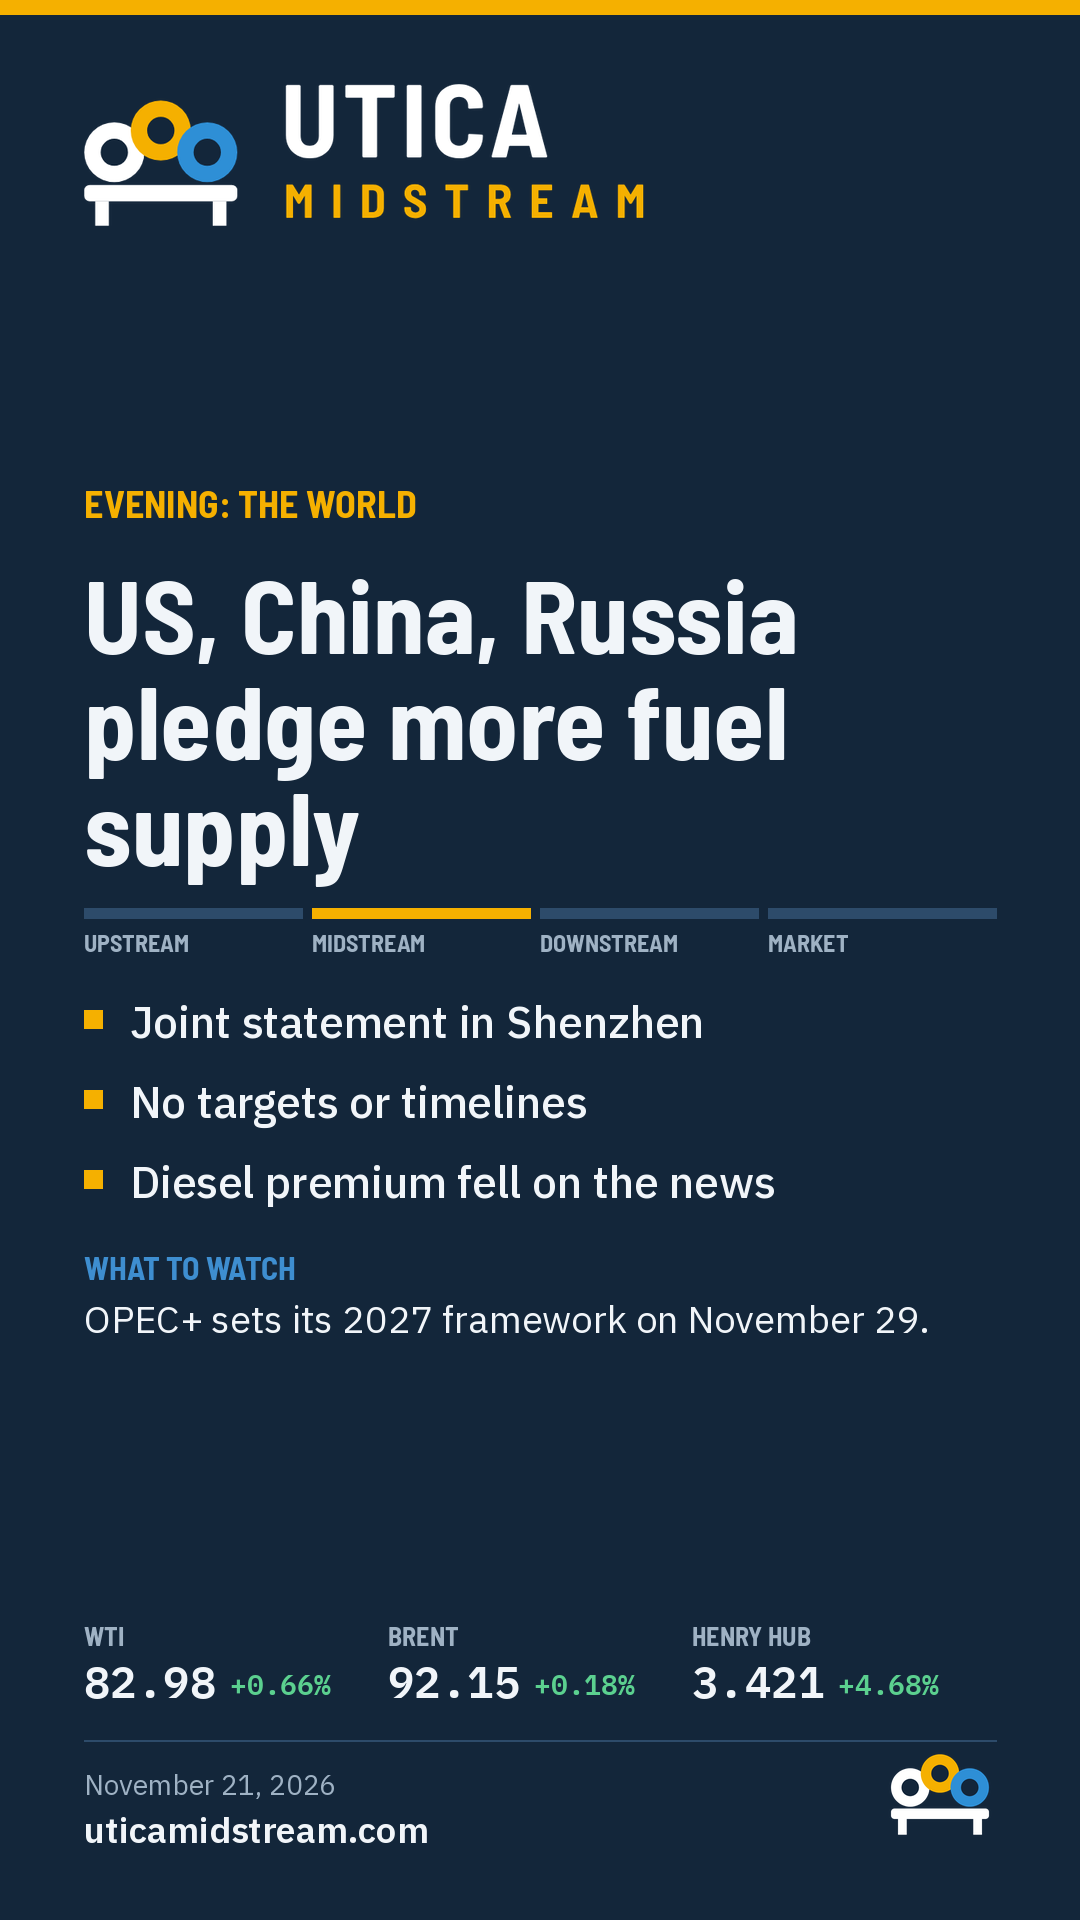
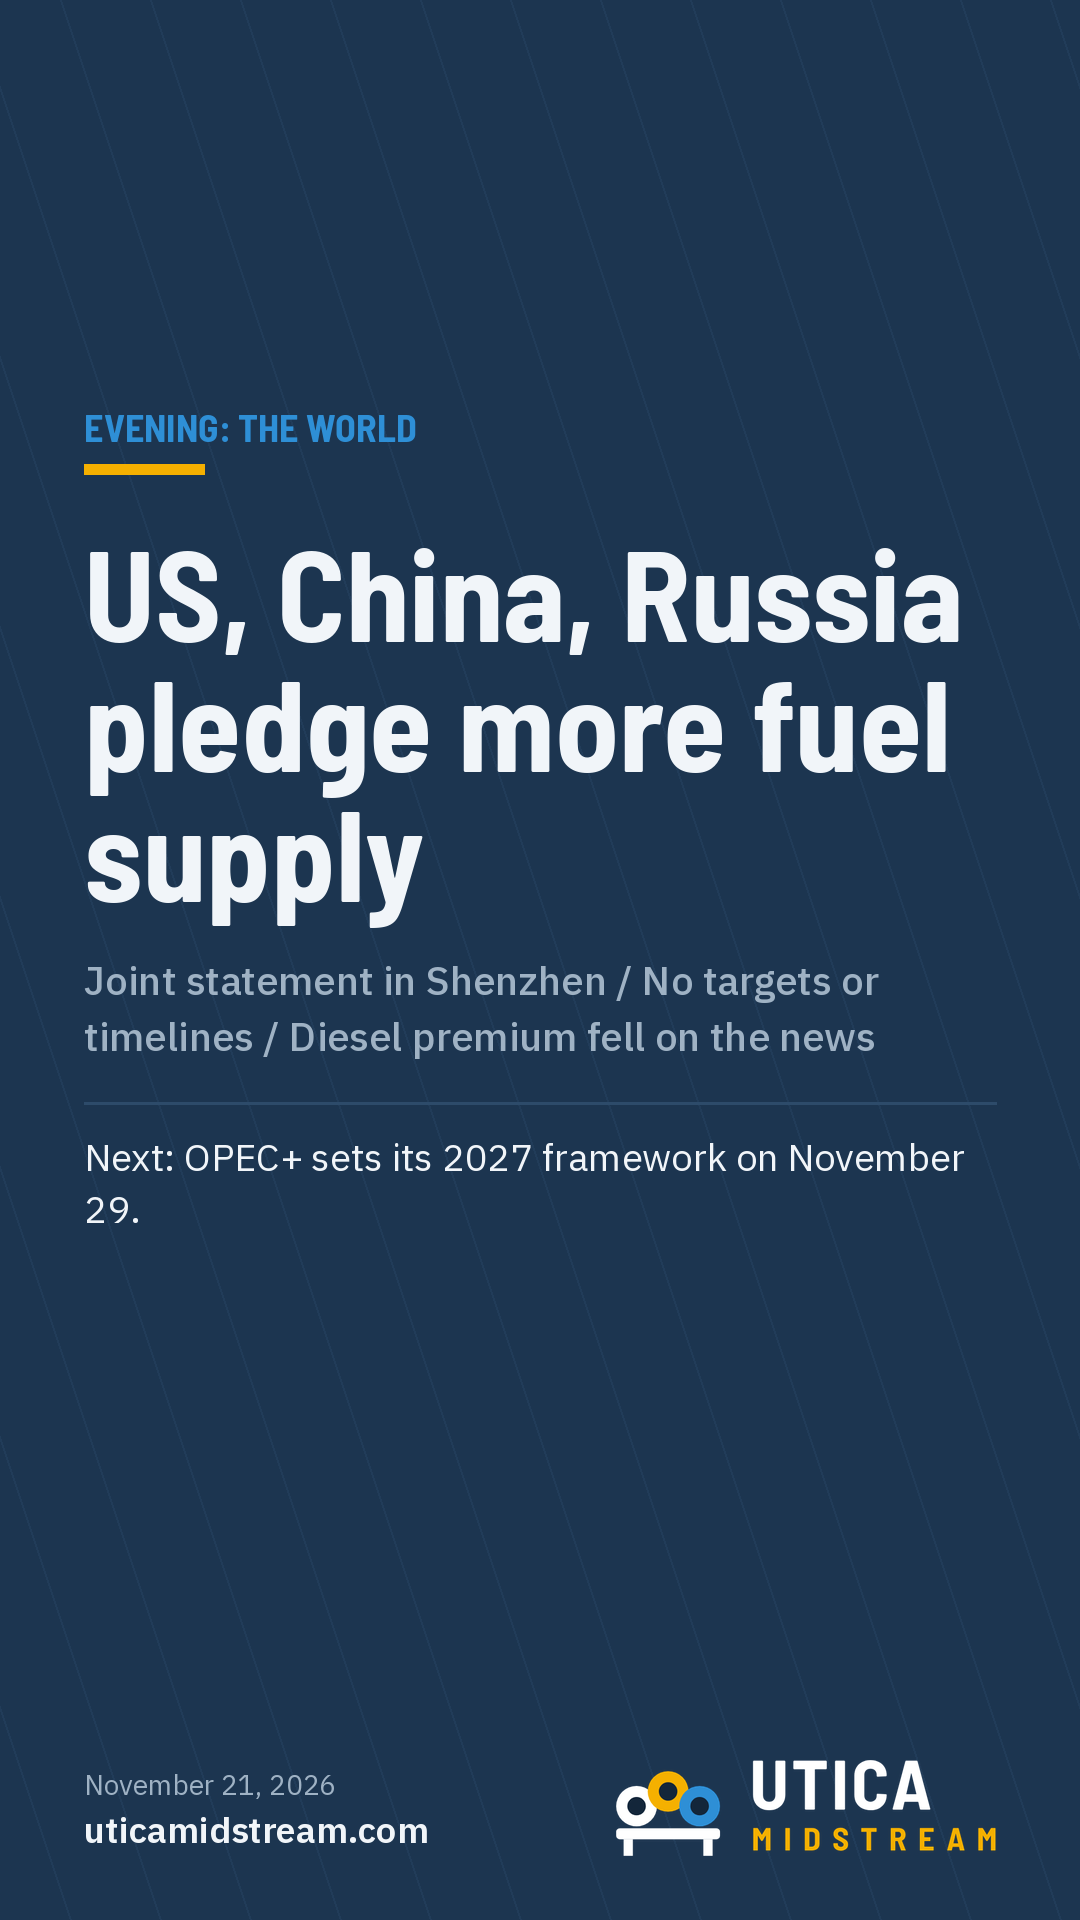
Social graphics: six rotating layouts by slot and date; caption variety rules
Claude-Session: https://claude.ai/code/session_01VeWbxtWDuFxHHiHML1bZzZ

diff --git a/tools/build.py b/tools/build.py
@@ -116,13 +116,17 @@ L += ["", "## About", f"- [How we work]({SITE}method.html)", f"- [Past editions]
 L += [f"- [{d['date_long']}: {d['lead']['headline']}]({page_url(d, True)})" for d in list(reversed(data))[:30]]
 open("llms.txt", "w").write("\n".join(L) + "\n")
 
-# Social graphics
-NAVY, PAPER, AMB, GAS, MUTE, LINE, UP, DN = (19, 38, 58), (241, 245, 249), (245, 176, 0), (62, 142, 208), (159, 178, 196), (45, 75, 106), (91, 208, 143), (255, 138, 128)
+# Social graphics: three slot looks (flow, money, world), each with two layouts that
+# alternate by date, so no two posts in a row share a template.
+NAVY, NAVY2, PAPER, AMB, AMBINK, GAS, WATER = (19, 38, 58), (28, 53, 80), (245, 244, 239), (245, 176, 0), (143, 94, 0), (62, 142, 208), (46, 143, 214)
+WHITE, MUTE, LINE, UP, DN, INK2 = (241, 245, 249), (159, 178, 196), (45, 75, 106), (91, 208, 143), (255, 138, 128), (84, 98, 112)
+UPI, DNI = (22, 128, 70), (180, 40, 40)
 def F(w, s): return ImageFont.truetype(f"tools/fonts/{w}.ttf", s)
 HEAD, SANS, SANSM, SANSB, MONO = "BarlowSemiCondensed-Bold", "IBMPlexSans-Regular", "IBMPlexSans-Medium", "IBMPlexSans-SemiBold", "IBMPlexMono-SemiBold"
-lock = Image.open("brand/um-lockup-white-1200.png").convert("RGBA")
-lock = lock.crop(lock.getbbox())
-mark = Image.open("brand/um-mark-white-400.png").convert("RGBA")
+def _png(p):
+    i = Image.open(p).convert("RGBA"); return i.crop(i.getbbox())
+LOCK_W, LOCK_N, MARK_W, MARK_C = _png("brand/um-lockup-white-1200.png"), _png("brand/um-lockup-navy-1200.png"), _png("brand/um-mark-white-400.png"), _png("brand/um-mark-400.png")
+M = 84
 
 def wrap(dr, text, font, width):
     words, lines, cur = text.split(), [], ""
@@ -133,66 +137,234 @@ def wrap(dr, text, font, width):
     lines.append(cur)
     return lines
 
-def card(d, s, W, H, path, pad=0, prices=True):
-    im = Image.new("RGB", (W, H), NAVY); dr = ImageDraw.Draw(im); M = 84
+def paste(im, src, x, y, w):
+    s = src.resize((w, int(w * src.height / src.width)), Image.LANCZOS); im.paste(s, (x, y), s); return s.height
+
+def headline(dr, text, x, y, width, sizes, fill, maxl=3):
+    for sz in sizes:
+        f = F(HEAD, sz); ls = wrap(dr, text, f, width)
+        if len(ls) <= maxl: break
+    for line in ls:
+        dr.text((x, y), line, font=f, fill=fill); y += int(f.size * 1.02)
+    return y
+
+def stat_of(s):
+    if s.get("stat"): return s["stat"]["value"], s["stat"].get("label", "")
+    import re
+    for pat in (r"[$€£]\d[\d,.]*\s?(?:B|M|K|bn|billion|million)?", r"\d[\d,.]*\s?(?:Bcf/d|MMcf/d|b/d|mtpa|%)"):
+        for p in s["points"]:
+            m = re.search(pat, p)
+            if m: return m.group().strip(), p
+    for p in s["points"]:
+        m = re.search(r"[$€£]?\d[\d,.]*\s?(?:%|B|M|K|bn|billion|million|Bcf/d|MMcf/d|b/d|mtpa)?", p)
+        if m and len(m.group().strip()) >= 2: return m.group().strip(), p
+    return None, None
+
+def price_strip(dr, d, x, y, W, dark):
+    if not d.get("prices"): return y
+    rows = {r["name"].split(" (")[0]: r for r in d["prices"]["rows"]}
+    picks = [(n, rows.get(k)) for n, k in (("WTI", "WTI"), ("BRENT", "Brent"), ("HENRY HUB", "Henry Hub")) if rows.get(k)]
+    if not picks: return y
+    cw = W // len(picks)
+    for i, (n, r) in enumerate(picks):
+        x0 = x + i * cw
+        dr.text((x0, y), n, font=F(HEAD, 26), fill=MUTE if dark else INK2)
+        dr.text((x0, y + 32), r["value"], font=F(MONO, 44), fill=WHITE if dark else NAVY)
+        pc = r.get("pct", "")
+        dr.text((x0 + dr.textlength(r["value"], font=F(MONO, 44)) + 14, y + 46), pc, font=F(MONO, 28),
+                fill=(DN if dark else DNI) if pc.startswith("-") else (UP if dark else UPI))
+    return y + 100
+
+def footer(im, dr, d, W, H, dark, mark_right=True):
+    fy = H - M - 96
+    dr.line((M, fy, W - M, fy), fill=LINE if dark else (214, 210, 198), width=2)
+    dr.text((M, H - M - 70), d["date_long"], font=F(SANS, 28), fill=MUTE if dark else INK2)
+    dr.text((M, H - M - 30), "uticamidstream.com", font=F(SANSB, 36), fill=WHITE if dark else NAVY)
+    if mark_right: paste(im, MARK_W if dark else MARK_C, W - M - 112, H - M - 108, 112)
+    return fy
+
+def chain_on(d, s):
+    return d["lead"].get("chain", []) if s is d.get("social") else ["midstream"]
+
+# Morning A: chain bar and bullets (the original look)
+def flow_a(d, s, W, H, pad):
+    im = Image.new("RGB", (W, H), NAVY); dr = ImageDraw.Draw(im)
     dr.rectangle((0, 0, W, 14), fill=AMB)
-    lg = lock.resize((560, int(560 * lock.height / lock.width)), Image.LANCZOS); im.paste(lg, (M, M), lg)
-    y = M + lg.height + 64 + pad
+    y = M + paste(im, LOCK_W, M, M, 560) + 64 + pad
     dr.text((M, y), s["kicker"].upper(), font=F(HEAD, 38), fill=AMB); y += 70
-    hf = F(HEAD, 104 if H > W * 1.5 else 92)
-    if H <= W * 1.5 and len(wrap(dr, s["headline"], hf, W - 2 * M)) > 2:
-        hf = F(HEAD, 78)
-    for line in wrap(dr, s["headline"], hf, W - 2 * M):
-        dr.text((M, y), line, font=hf, fill=PAPER); y += int(hf.size * 1.02)
-    y += 40
-    # value chain bar
-    seg = (W - 2 * M) // 4
+    y = headline(dr, s["headline"], M, y, W - 2 * M, (104, 92, 78) if H > W * 1.5 else (92, 78), WHITE) + 40
+    seg, on = (W - 2 * M) // 4, chain_on(d, s)
     for i, lab in enumerate(("UPSTREAM", "MIDSTREAM", "DOWNSTREAM", "MARKET")):
         x0 = M + i * seg
-        on = lab.lower() in d["lead"].get("chain", []) if s is d.get("social") else lab == "MIDSTREAM"
-        dr.rectangle((x0, y, x0 + seg - (10 if i < 3 else 0), y + 10), fill=AMB if lab == "MIDSTREAM" else (GAS if on else LINE))
+        dr.rectangle((x0, y, x0 + seg - (10 if i < 3 else 0), y + 10), fill=AMB if lab == "MIDSTREAM" else (GAS if lab.lower() in on else LINE))
         dr.text((x0, y + 20), lab, font=F(HEAD, 24), fill=MUTE)
-    y += 84
-    pf = F(SANSM, 44)
+    y += 84; pf = F(SANSM, 44)
     for p in s["points"]:
         dr.rectangle((M, y + 18, M + 18, y + 36), fill=AMB)
         for line in wrap(dr, p, pf, W - 2 * M - 50):
-            dr.text((M + 46, y), line, font=pf, fill=PAPER); y += 58
+            dr.text((M + 46, y), line, font=pf, fill=WHITE); y += 58
         y += 22
     if s.get("watch"):
-        y += 16
-        dr.text((M, y), "WHAT TO WATCH", font=F(HEAD, 32), fill=GAS); y += 46
-        wf = F(SANS, 38)
-        for line in wrap(dr, s["watch"], wf, W - 2 * M):
-            dr.text((M, y), line, font=wf, fill=PAPER); y += 52
-    end = y
-    foot = H - M - 96
-    if prices and d.get("prices"):
-        rows = {r["name"].split(" (")[0]: r for r in d["prices"]["rows"]}
-        picks = [("WTI", rows.get("WTI")), ("BRENT", rows.get("Brent")), ("HENRY HUB", rows.get("Henry Hub"))]
-        picks = [(n, r) for n, r in picks if r]
-        if picks and foot - end > 150:
-            py = foot - 120
-            cw = (W - 2 * M) // len(picks)
-            for i, (n, r) in enumerate(picks):
-                x0 = M + i * cw
-                dr.text((x0, py), n, font=F(HEAD, 26), fill=MUTE)
-                dr.text((x0, py + 32), r["value"], font=F(MONO, 44), fill=PAPER)
-                pc = r.get("pct", "")
-                dr.text((x0 + dr.textlength(r["value"], font=F(MONO, 44)) + 14, py + 46), pc, font=F(MONO, 28), fill=DN if pc.startswith("-") else UP)
-    dr.line((M, foot, W - M, foot), fill=LINE, width=2)
+        y += 16; dr.text((M, y), "WHAT TO WATCH", font=F(HEAD, 32), fill=GAS); y += 46
+        for line in wrap(dr, s["watch"], F(SANS, 38), W - 2 * M):
+            dr.text((M, y), line, font=F(SANS, 38), fill=WHITE); y += 52
+    fy = footer(im, dr, d, W, H, True)
+    if fy - y > 150: price_strip(dr, d, M, fy - 120, W - 2 * M, True)
+    return im, y
+
+# Morning B: a pipeline schematic, headline up top, numbered steps along the pipe
+def flow_b(d, s, W, H, pad):
+    im = Image.new("RGB", (W, H), NAVY2); dr = ImageDraw.Draw(im)
+    dr.rectangle((0, 0, 14, H), fill=AMB)
+    y = M + pad
+    paste(im, MARK_W, M, y, 96)
+    dr.text((M + 120, y + 8), "UTICA MIDSTREAM", font=F(HEAD, 34), fill=WHITE)
+    dr.text((M + 120, y + 50), s["kicker"].upper(), font=F(HEAD, 30), fill=AMB)
+    y += 160
+    y = headline(dr, s["headline"], M, y, W - 2 * M, (112, 98, 84) if H > W * 1.5 else (100, 86, 76), WHITE) + 56
+    # pipe with four valves
+    on = chain_on(d, s); xs = [M + 40 + i * (W - 2 * M - 80) // 3 for i in range(4)]
+    dr.rectangle((M, y + 26, W - M, y + 46), fill=LINE)
+    for i, lab in enumerate(("UPSTREAM", "MIDSTREAM", "DOWNSTREAM", "MARKET")):
+        lit = lab == "MIDSTREAM" or lab.lower() in on
+        c = AMB if lab == "MIDSTREAM" else (GAS if lit else LINE)
+        if i < 3 and lit and (("UPSTREAM", "MIDSTREAM", "DOWNSTREAM", "MARKET")[i + 1].lower() in on or i == 0 and "upstream" in on):
+            dr.rectangle((xs[i], y + 26, xs[i + 1], y + 46), fill=GAS)
+        dr.ellipse((xs[i] - 36, y, xs[i] + 36, y + 72), fill=c, outline=NAVY2, width=6)
+        tw = dr.textlength(lab, font=F(HEAD, 24))
+        dr.text((max(M, min(xs[i] - tw / 2, W - M - tw)), y + 86), lab, font=F(HEAD, 24), fill=WHITE if lit else MUTE)
+    y += 150
+    for n, p in enumerate(s["points"], 1):
+        dr.text((M, y - 4), f"0{n}", font=F(MONO, 40), fill=AMB)
+        for line in wrap(dr, p, F(SANSM, 44), W - 2 * M - 90):
+            dr.text((M + 90, y), line, font=F(SANSM, 44), fill=WHITE); y += 58
+        y += 14; dr.line((M + 90, y, W - M, y), fill=LINE, width=2); y += 24
+    if s.get("watch"):
+        y += 10
+        for i, line in enumerate(wrap(dr, "Watch: " + s["watch"], F(SANS, 38), W - 2 * M)):
+            dr.text((M, y), line, font=F(SANS, 38), fill=MUTE if i else WHITE); y += 52
+    fy = footer(im, dr, d, W, H, True, mark_right=False)
+    if fy - y > 150: price_strip(dr, d, M, fy - 120, W - 2 * M, True)
+    return im, y
+
+# Midday A: light paper card with a big number
+def money_a(d, s, W, H, pad):
+    im = Image.new("RGB", (W, H), PAPER); dr = ImageDraw.Draw(im)
+    dr.rectangle((0, 0, W, 14), fill=NAVY)
+    y = M + paste(im, LOCK_N, M, M, 420) + 70 + pad
+    dr.text((M, y), s["kicker"].upper(), font=F(HEAD, 36), fill=AMBINK); y += 72
+    val, lab = stat_of(s)
+    if val:
+        vf = F(HEAD, 230 if dr.textlength(val, font=F(HEAD, 230)) < W - 2 * M else 160)
+        dr.text((M - 6, y - 30), val, font=vf, fill=NAVY); y += int(vf.size * 0.95)
+        dr.rectangle((M, y, M + 160, y + 12), fill=AMB); y += 34
+        for line in wrap(dr, lab, F(SANSM, 36), W - 2 * M):
+            dr.text((M, y), line, font=F(SANSM, 36), fill=INK2); y += 48
+        y += 30
+    y = headline(dr, s["headline"], M, y, W - 2 * M, (84, 74, 66), NAVY) + 30
+    rest = [p for p in s["points"] if p != lab]
+    for p in rest:
+        for i, line in enumerate(wrap(dr, p, F(SANS, 40), W - 2 * M - 40)):
+            if i == 0: dr.text((M, y), "+", font=F(SANSB, 40), fill=AMBINK)
+            dr.text((M + 40, y), line, font=F(SANS, 40), fill=NAVY); y += 54
+        y += 10
+    if s.get("watch") and H > W * 1.5:
+        y += 20
+        for line in wrap(dr, "Next: " + s["watch"], F(SANS, 36), W - 2 * M):
+            dr.text((M, y), line, font=F(SANS, 36), fill=INK2); y += 50
+    footer(im, dr, d, W, H, False)
+    return im, y
+
+# Midday B: navy number block over paper, ticker style
+def money_b(d, s, W, H, pad):
+    im = Image.new("RGB", (W, H), PAPER); dr = ImageDraw.Draw(im)
+    val, lab = stat_of(s)
+    bh = (600 if H > W * 1.5 else 530) + pad
+    dr.rectangle((0, 0, W, bh), fill=NAVY)
+    paste(im, LOCK_W, M, M, 360)
+    dr.text((M, M + 128 + pad // 3), s["kicker"].upper(), font=F(HEAD, 34), fill=AMB)
+    if val:
+        vf = F(HEAD, 170 if dr.textlength(val, font=F(HEAD, 170)) < W - 2 * M else 120)
+        dr.text((M - 4, bh - 104), val, font=vf, fill=AMB, anchor="ls")
+        dr.text((M, bh - 80), (lab or "")[:60], font=F(SANSM, 32), fill=WHITE)
+    dr.rectangle((0, bh, W, bh + 14), fill=AMB)
+    y = bh + 70
+    y = headline(dr, s["headline"], M, y, W - 2 * M, (92, 80, 70), NAVY) + 36
+    for p in [p for p in s["points"] if p != lab]:
+        dr.rectangle((M, y + 6, M + 8, y + 44), fill=NAVY)
+        for line in wrap(dr, p, F(SANSM, 40), W - 2 * M - 36):
+            dr.text((M + 34, y), line, font=F(SANSM, 40), fill=NAVY); y += 54
+        y += 18
+    if s.get("watch"):
+        y += 10
+        dr.text((M, y), "WHAT'S NEXT", font=F(HEAD, 30), fill=AMBINK); y += 42
+        for line in wrap(dr, s["watch"], F(SANS, 36), W - 2 * M):
+            dr.text((M, y), line, font=F(SANS, 36), fill=INK2); y += 50
+    footer(im, dr, d, W, H, False)
+    return im, y
+
+# Evening A: blue world band, numbered dispatch
+def world_a(d, s, W, H, pad):
+    im = Image.new("RGB", (W, H), NAVY); dr = ImageDraw.Draw(im)
+    bh = 300 + pad
+    dr.rectangle((0, 0, W, bh), fill=GAS)
+    for k in range(1, 7):  # latitude lines
+        yy = int(bh * k / 7); dr.line((0, yy, W, yy), fill=(84, 158, 218), width=2)
+    paste(im, LOCK_W, M, M, 420)
+    dr.text((M, bh - 74), s["kicker"].upper(), font=F(HEAD, 40), fill=NAVY)
+    y = bh + 64
+    y = headline(dr, s["headline"], M, y, W - 2 * M, (100, 88, 76), WHITE) + 44
+    for n, p in enumerate(s["points"], 1):
+        dr.ellipse((M, y + 2, M + 52, y + 54), outline=GAS, width=4)
+        dr.text((M + 26, y + 28), str(n), font=F(HEAD, 32), fill=GAS, anchor="mm")
+        for line in wrap(dr, p, F(SANSM, 42), W - 2 * M - 80):
+            dr.text((M + 80, y + 2), line, font=F(SANSM, 42), fill=WHITE); y += 56
+        y += 26
+    if s.get("watch"):
+        y += 10
+        dr.text((M, y), "ON THE CALENDAR", font=F(HEAD, 30), fill=GAS); y += 44
+        for line in wrap(dr, s["watch"], F(SANS, 38), W - 2 * M):
+            dr.text((M, y), line, font=F(SANS, 38), fill=WHITE); y += 52
+    footer(im, dr, d, W, H, True)
+    return im, y
+
+# Evening B: big quote-style headline, water blue rule, no lockup at top
+def world_b(d, s, W, H, pad):
+    im = Image.new("RGB", (W, H), NAVY2); dr = ImageDraw.Draw(im)
+    for x in range(-H, W, 90):  # faint meridian hatching
+        dr.line((x, 0, x + H // 3, H), fill=(33, 60, 89), width=2)
+    y = M + 20 + pad
+    dr.text((M, y), s["kicker"].upper(), font=F(HEAD, 38), fill=WATER); y += 60
+    dr.rectangle((M, y, M + 120, y + 10), fill=AMB); y += 50
+    y = headline(dr, s["headline"], M, y, W - 2 * M, (128, 112, 96, 84) if H > W * 1.5 else (116, 100, 86, 76), WHITE, maxl=4) + 50
+    pts = "  /  ".join(s["points"])
+    for line in wrap(dr, pts, F(SANSM, 40), W - 2 * M):
+        dr.text((M, y), line, font=F(SANSM, 40), fill=MUTE); y += 56
+    if s.get("watch"):
+        y += 36
+        dr.rectangle((M, y, W - M, y + 2), fill=LINE); y += 30
+        for i, line in enumerate(wrap(dr, "Next: " + s["watch"], F(SANS, 38), W - 2 * M)):
+            dr.text((M, y), line, font=F(SANS, 38), fill=WHITE); y += 52
+    fy = H - M - 96
     dr.text((M, H - M - 70), d["date_long"], font=F(SANS, 28), fill=MUTE)
-    dr.text((M, H - M - 30), "uticamidstream.com", font=F(SANSB, 36), fill=PAPER)
-    mk = mark.resize((112, 112), Image.LANCZOS); im.paste(mk, (W - M - 112, H - M - 108), mk)
+    paste(im, LOCK_W, W - M - 380, H - M - 76, 380)
+    dr.text((M, H - M - 30), "uticamidstream.com", font=F(SANSB, 36), fill=WHITE)
+    return im, y
+
+LAYOUTS = {"morning": (flow_a, flow_b), "midday": (money_a, money_b), "evening": (world_a, world_b)}
+
+def card(d, s, slot, W, H, path, pad=0):
+    k = datetime.strptime(d["date"], "%Y-%m-%d").toordinal() % 2
+    im, end = LAYOUTS[slot][k](d, s, W, H, pad)
     im.save(path, optimize=True)
     return end
 
-def render_slot(d, s, base):
-    card(d, s, 1080, 1350, f"social/{base}.png")
-    end = card(d, s, 1080, 1920, f"social/{base}-story.png")
+def render_slot(d, s, base, slot="morning"):
+    card(d, s, slot, 1080, 1350, f"social/{base}.png")
+    end = card(d, s, slot, 1080, 1920, f"social/{base}-story.png")
     free = (1920 - 84 - 300) - end
     if free > 80:
-        card(d, s, 1080, 1920, f"social/{base}-story.png", pad=free // 2)
+        card(d, s, slot, 1080, 1920, f"social/{base}-story.png", pad=free // 2)
 
 for d in data:
     if "social" not in d: continue
@@ -200,7 +372,7 @@ for d in data:
         render_slot(d, d["social"], d["date"])
         open(f"social/{d['date']}.txt", "w").write(d["social"]["caption"] + "\n")
         for slot, ss in d.get("social_slots", {}).items():
-            render_slot(d, ss, f"{d['date']}-{slot}")
+            render_slot(d, ss, f"{d['date']}-{slot}", slot)
             open(f"social/{d['date']}-{slot}.txt", "w").write(ss["caption"] + "\n")
 
 slots = {"morning": {"image": f"{SITE}social/{latest['date']}.png", "story": f"{SITE}social/{latest['date']}-story.png", "caption": latest["social"]["caption"]}}

diff --git a/CLAUDE.md b/CLAUDE.md
@@ -15,7 +15,7 @@ lead{kicker, chain[] of upstream|midstream|downstream|market that the story touc
 briefs[4 to 6]{id, segment Upstream|Midstream|Downstream|Gas and LNG|Cross-industry|Regulation, setting (Onshore, Offshore, Refining, CCUS, Global...), region, headline, text, why, sources[]},
 docket[]{agency, action, date, status, means, source}, basins[]{name, setting, line, source},
 leader{week_of, name, role, summary, path, why, sources[]}, events[]{when, name, where, note, url},
-social{kicker "Morning: the flow", headline, points[3], watch, caption}, social_slots{midday{kicker "Midday: the money",...}, evening{kicker "Evening: the world",...}}.
+social{kicker "Morning: the flow", headline, points[3], watch, caption, stat?{value,label}}, social_slots{midday{kicker "Midday: the money",..., stat{value,label}}, evening{kicker "Evening: the world",...}}. stat is the hero number on the midday card (for example "$2.1B", "Reuters' estimate for the 70% stake"), taken from a sourced fact; if absent the builder picks the first number in points.
 Brief ids "money" and "world" must exist.
 
 ## Daily rules
@@ -26,6 +26,7 @@ Brief ids "money" and "world" must exist.
 - Events: keep upcoming industry events in date order, drop past ones, add new ones when announced (official site first). Keep Produced Water Society events listed.
 - Docket: keep items until a week after they pass; add new decisions with status as reported.
 - Every fact sourced, dated and linked. Paraphrase; at most one short quote per source. No em or en dashes as punctuation. Plain, direct, human prose. Politically neutral. General information, not investment advice.
+- Social variety (Raj, Nov 21, 2026: posts must not look copy and paste). The builder rotates six layouts: morning (pipeline schematic or chain bar), midday (light paper big number or navy number block), evening (blue world band or quote style), alternating by date, so do not hand edit graphics. Captions must vary too: never reuse the same structure two posts running. Rotate openings (a number, a place, a company, a question the reader is asking, a plain statement of what changed), lengths (two lines to three short paragraphs), and the closing line (a takeaway, what to watch with a date, a who-is-affected line, or none). Do not reuse stock phrases such as "Across the chain:" or always end with "More: uticamidstream.com"; vary the link line ("Full edition", "Details and sources", "Prices and the full read", or the link alone). Points on the card and caption wording should not repeat each other word for word. Check the previous three days of captions before writing.
 - Social headline under 60 chars, points under 40, caption under 600 with 4 to 6 hashtags; caption first paragraph is the page description (under 300 chars). Morning post is written for a US reader; midday and evening for a global reader.
 
 ## Brand
